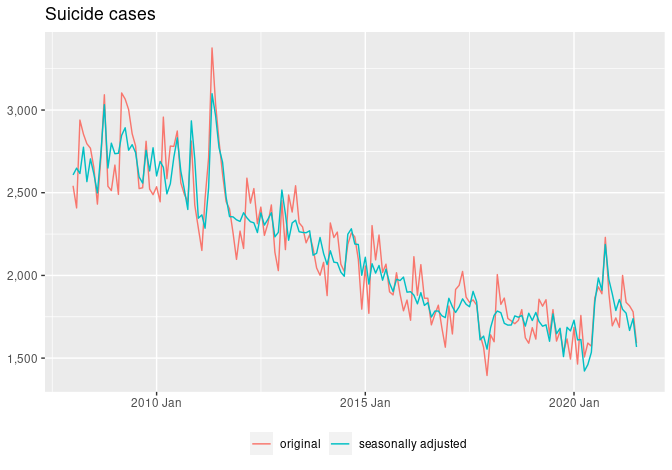
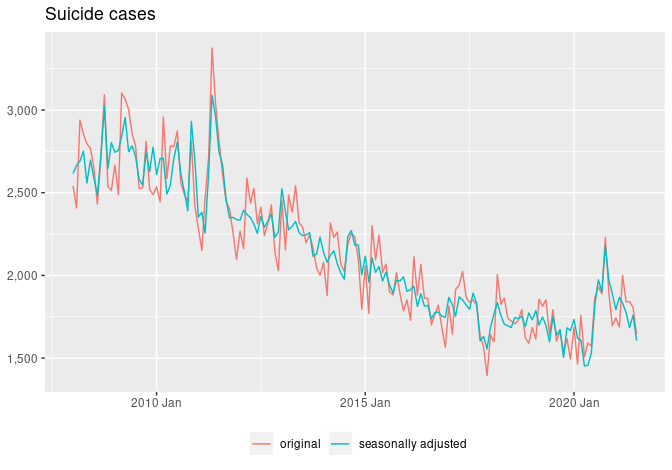
revised July 2021 cases

diff --git a/README.md b/README.md
@@ -10,11 +10,11 @@ Mitsuo Shiota
 -   [Suicide cases are bouncing back, but not as fast as the program
     suggests](#suicide-cases-are-bouncing-back-but-not-as-fast-as-the-program-suggests)
 
-Updated: 2021-08-18
+Updated: 2021-08-21
 
 ## Motivation
 
-I was watching News Center 9, an NHK nightly news program, on December
+I was watching News Watch 9, an NHK nightly news program, on December
 16, 2020. It told suicide cases have been rapidly surging since July
 2020 in Japan by showing a chart, which I will replicate later. I felt
 the apparent rapid surge might be an exaggeration.
